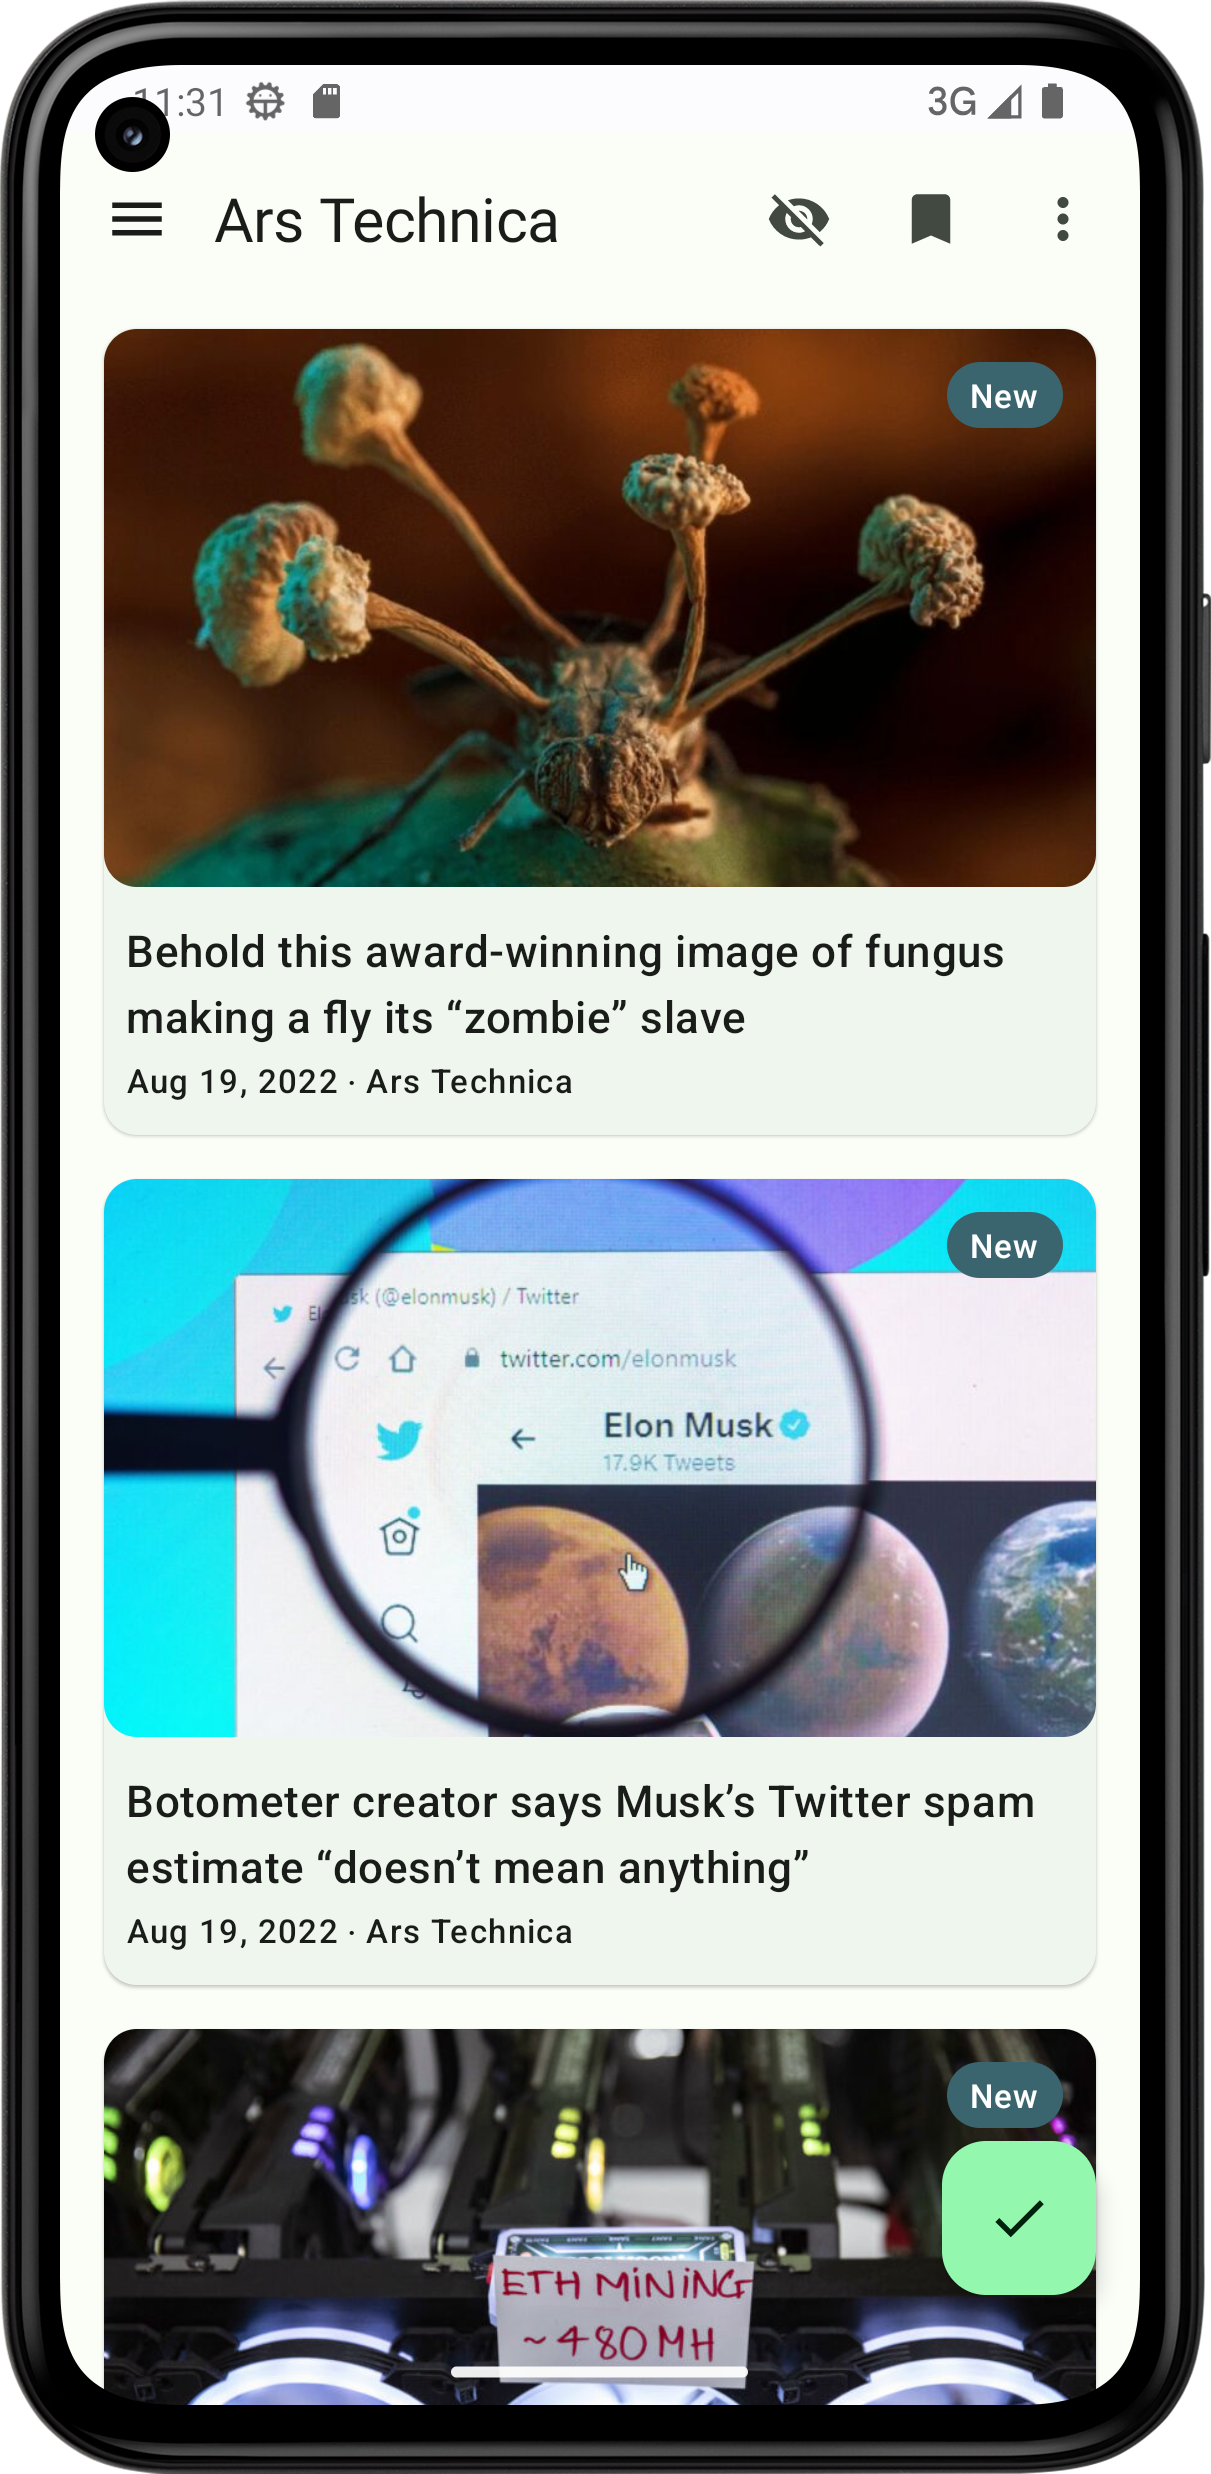
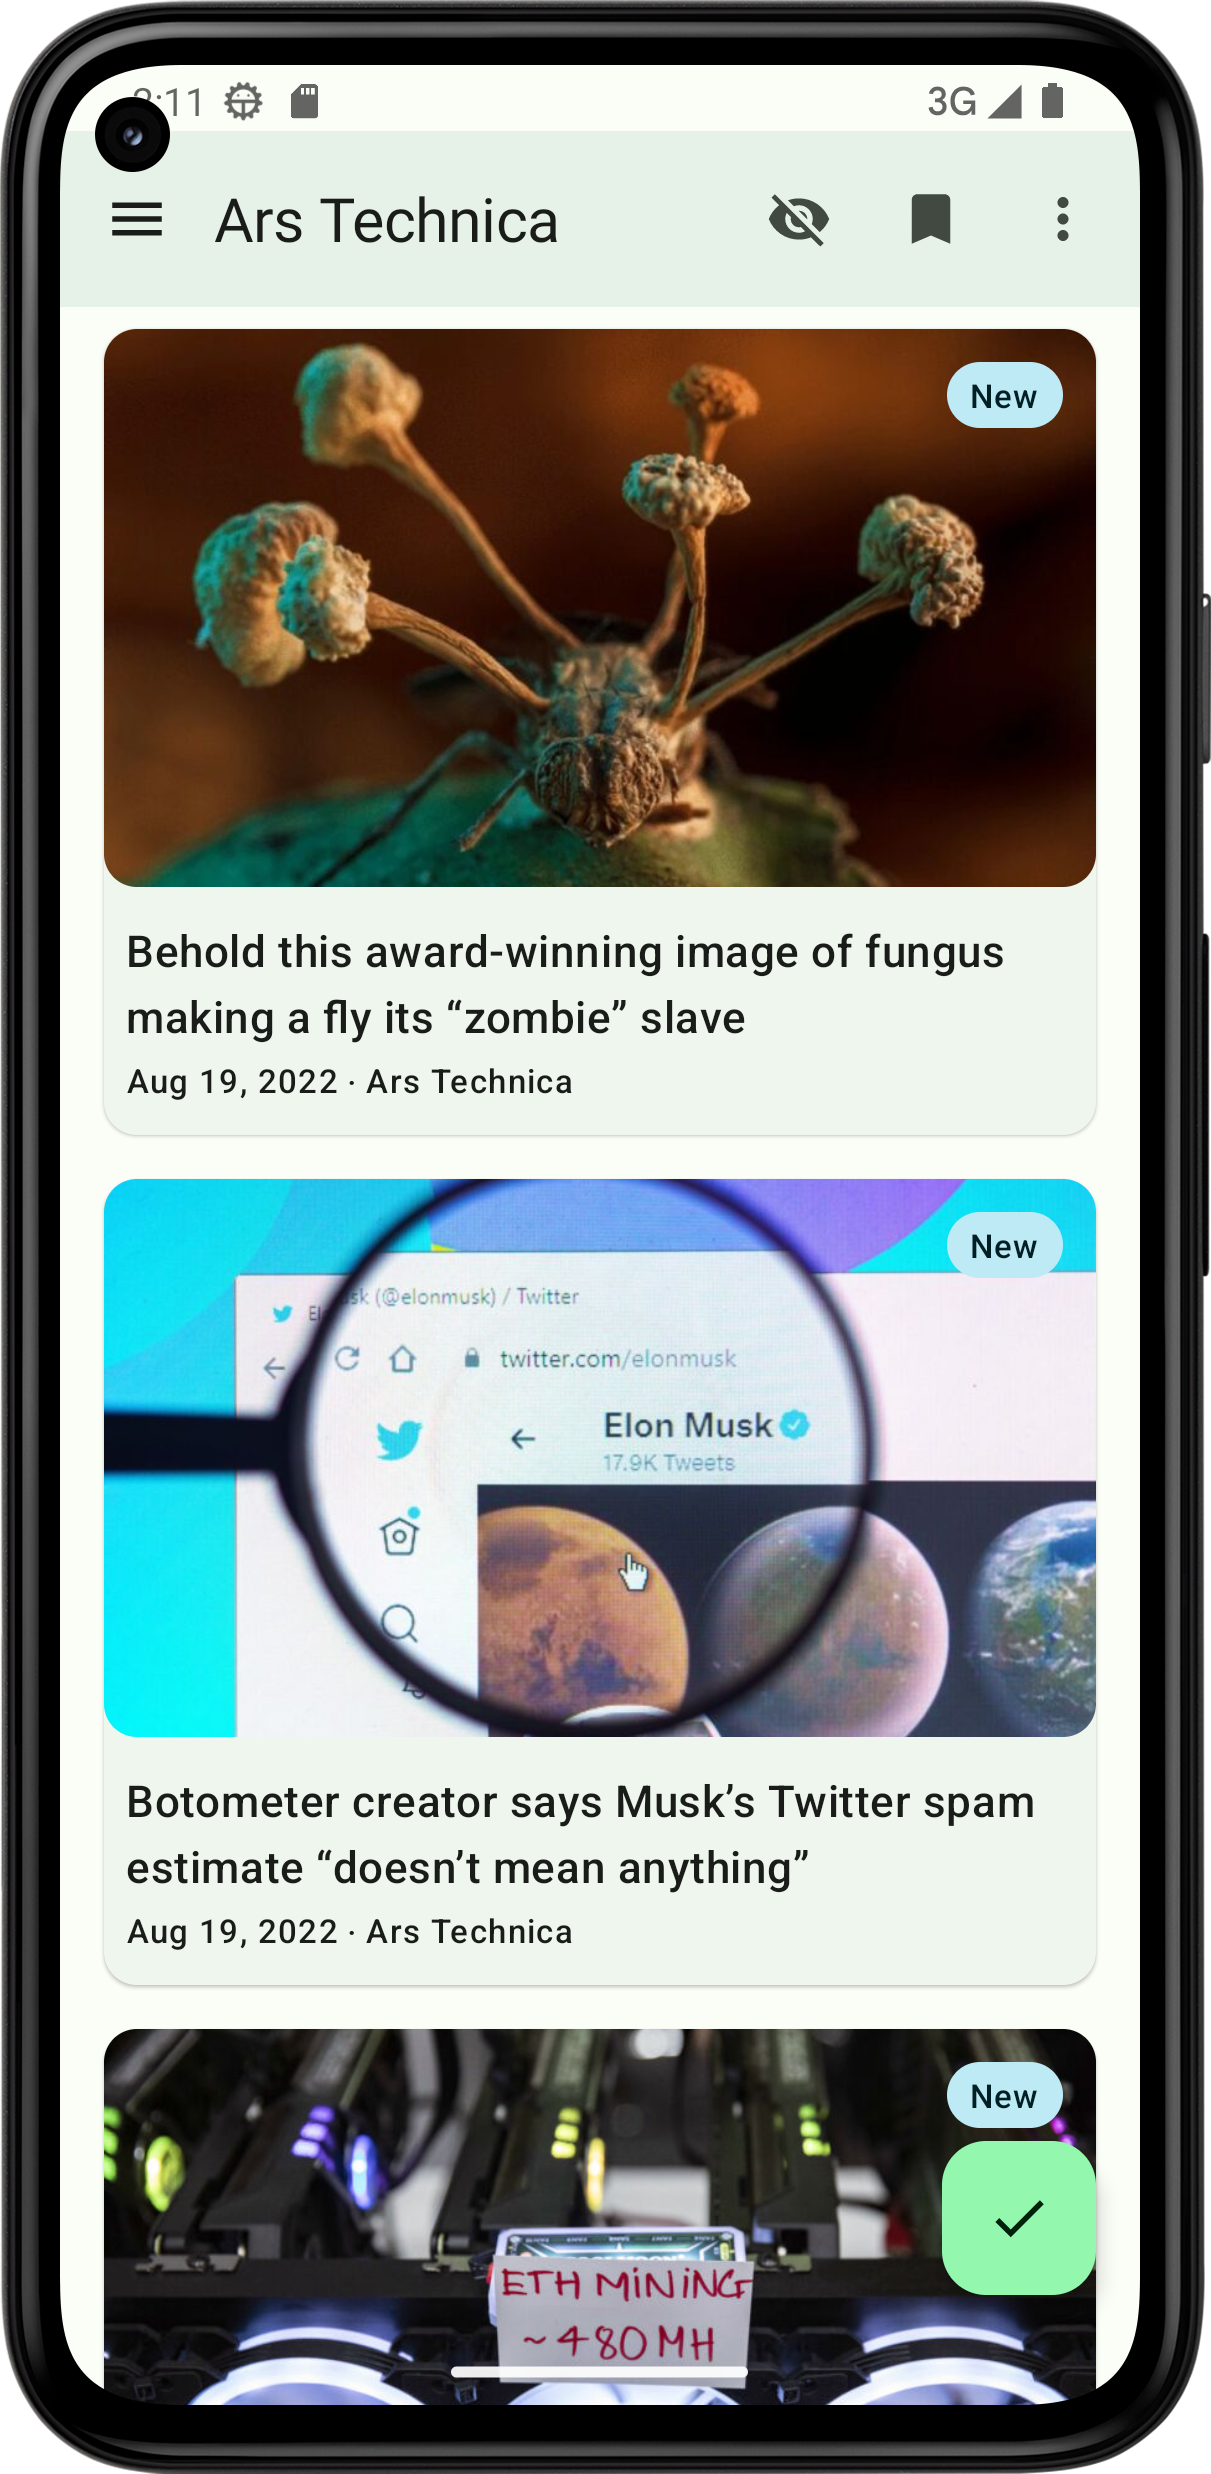
Fixed color of indicator

diff --git a/app/src/main/java/com/nononsenseapps/feeder/ui/compose/feed/FeedItemIndicator.kt b/app/src/main/java/com/nononsenseapps/feeder/ui/compose/feed/FeedItemIndicator.kt
@@ -111,7 +111,7 @@ fun FeedItemIndicator(
         value = MaterialTheme.typography.labelMedium
     ) {
         Surface(
-            color = MaterialTheme.colorScheme.tertiary,
+            color = MaterialTheme.colorScheme.tertiaryContainer,
             shape = MaterialTheme.shapes.medium,
         ) {
             Box(
